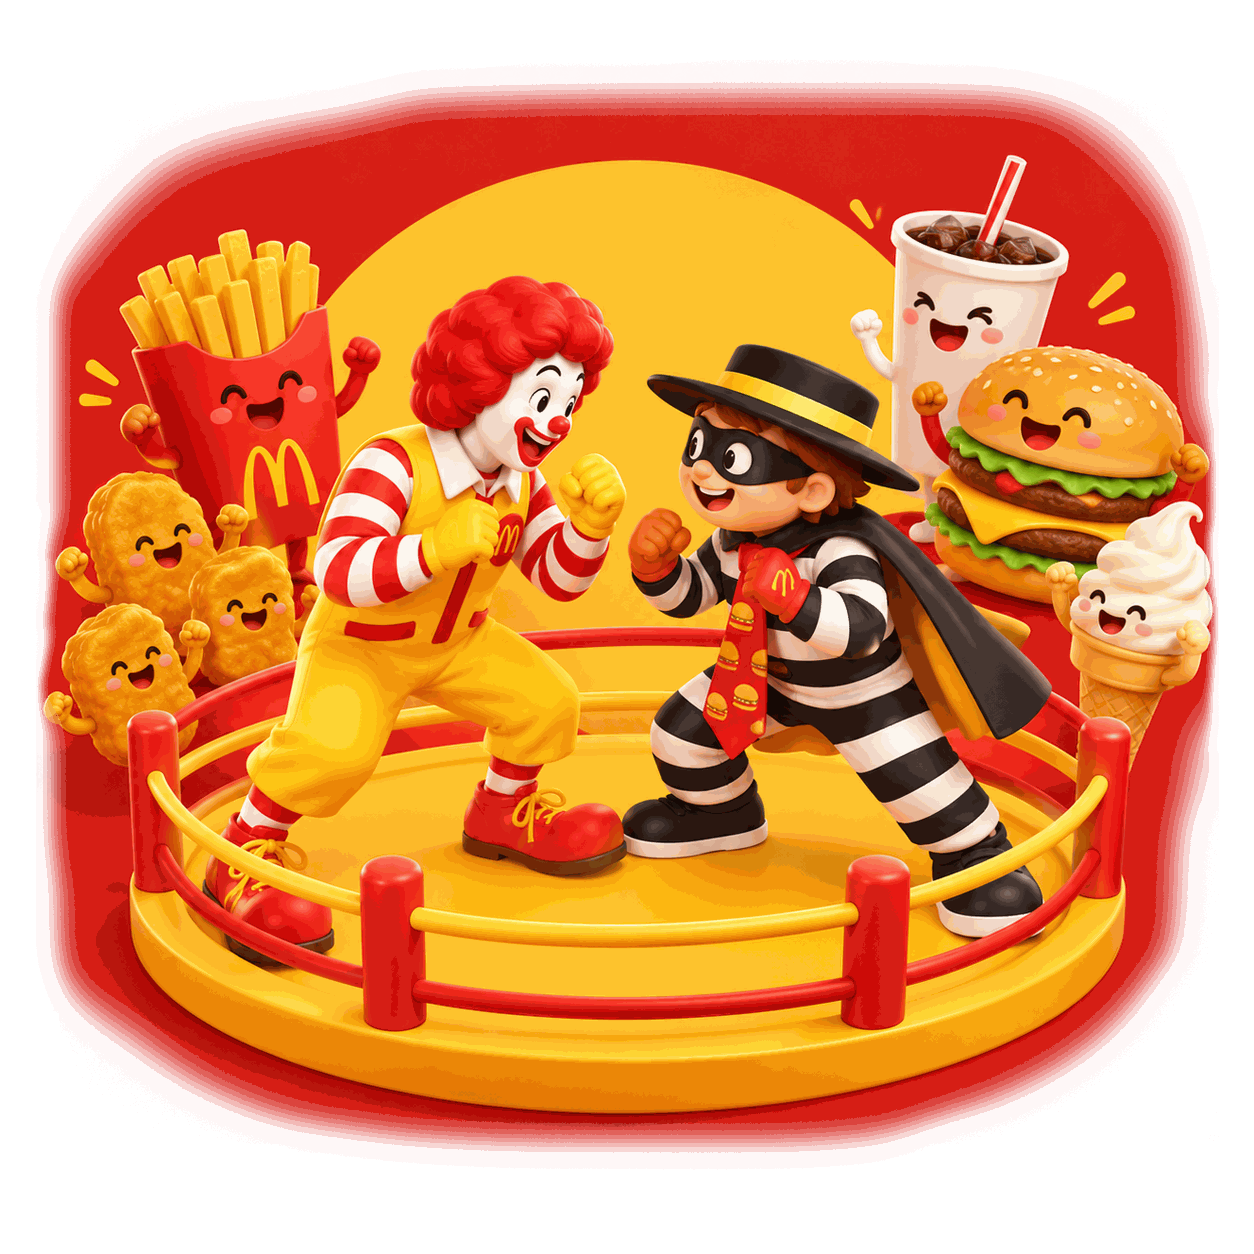
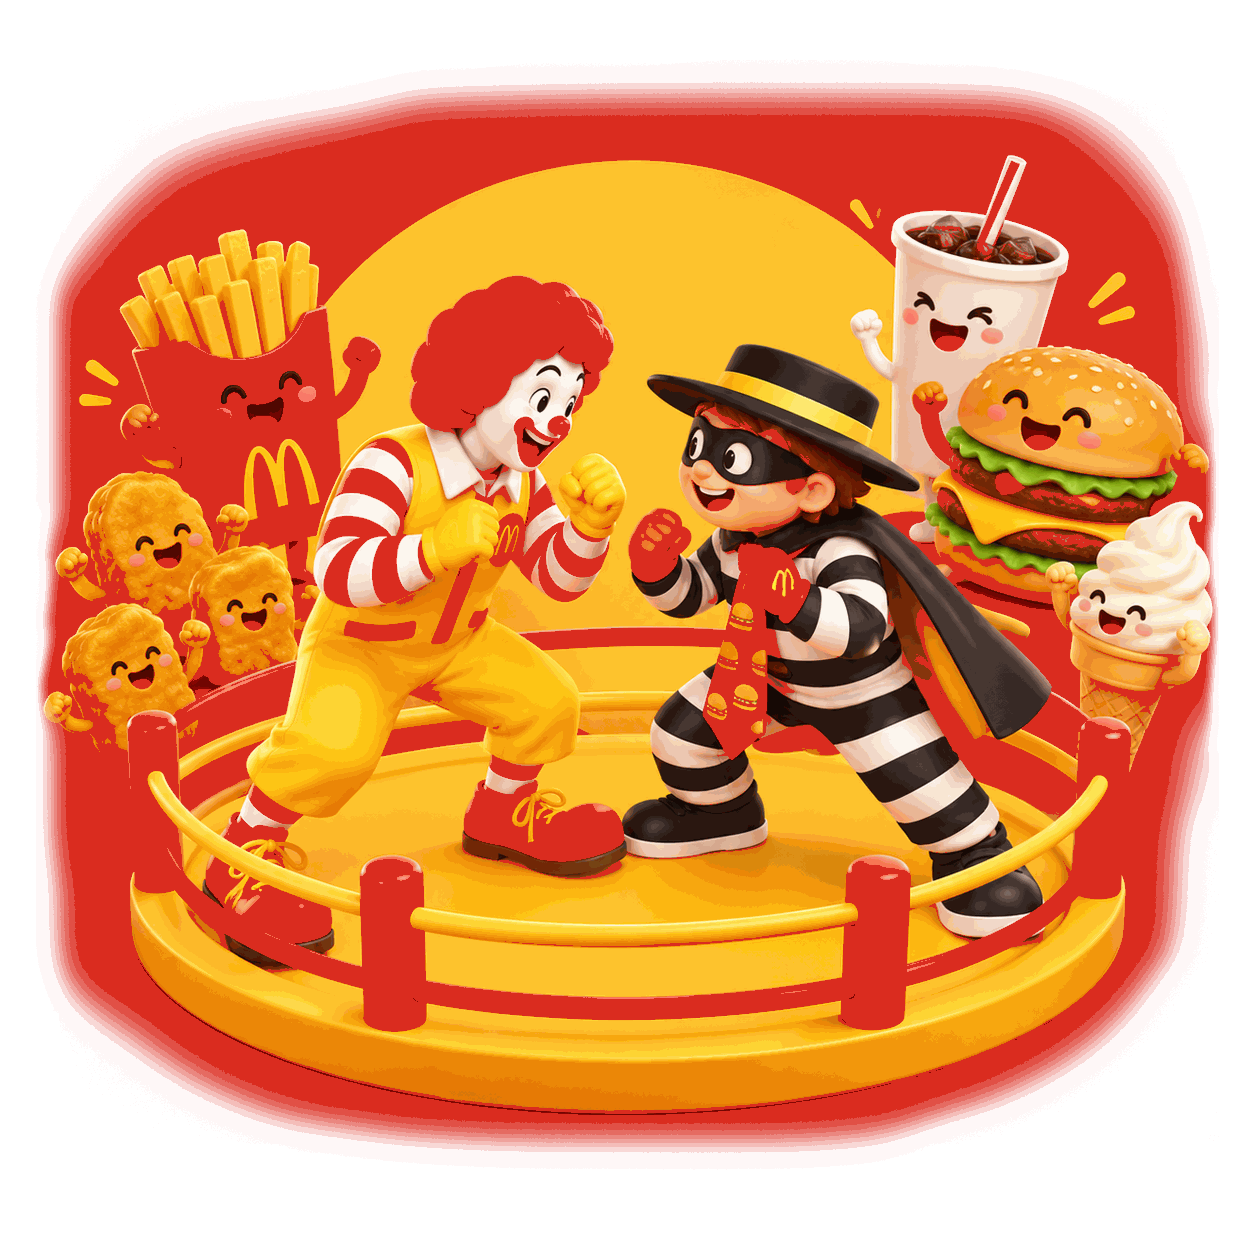
展示位去投影+消色差: 移除CSS drop-shadow; 图内烘焙红晕(212,27,19)及亮红像素统一为hero红#DA291C, 与背景无缝融合

diff --git a/web/index.html b/web/index.html
@@ -119,7 +119,7 @@ img{display:block}
 .cd-cell .unit{font-size:12px;font-weight:500;color:#FFD5CE}
 .hero-stat{font-size:14px;color:var(--hero-mut);line-height:20px}
 .hero-showcase{position:relative;width:min(500px,42%);flex:none;aspect-ratio:1/1}
-.hero-showcase img{position:absolute;left:0;top:0;width:100%;height:100%;object-fit:contain;filter:drop-shadow(0 18px 28px rgba(30,27,24,.35))}
+.hero-showcase img{position:absolute;left:0;top:0;width:100%;height:100%;object-fit:contain}
 
 /* ================= 波浪条 ================= */
 .wave{height:48px;position:relative;overflow:hidden}
